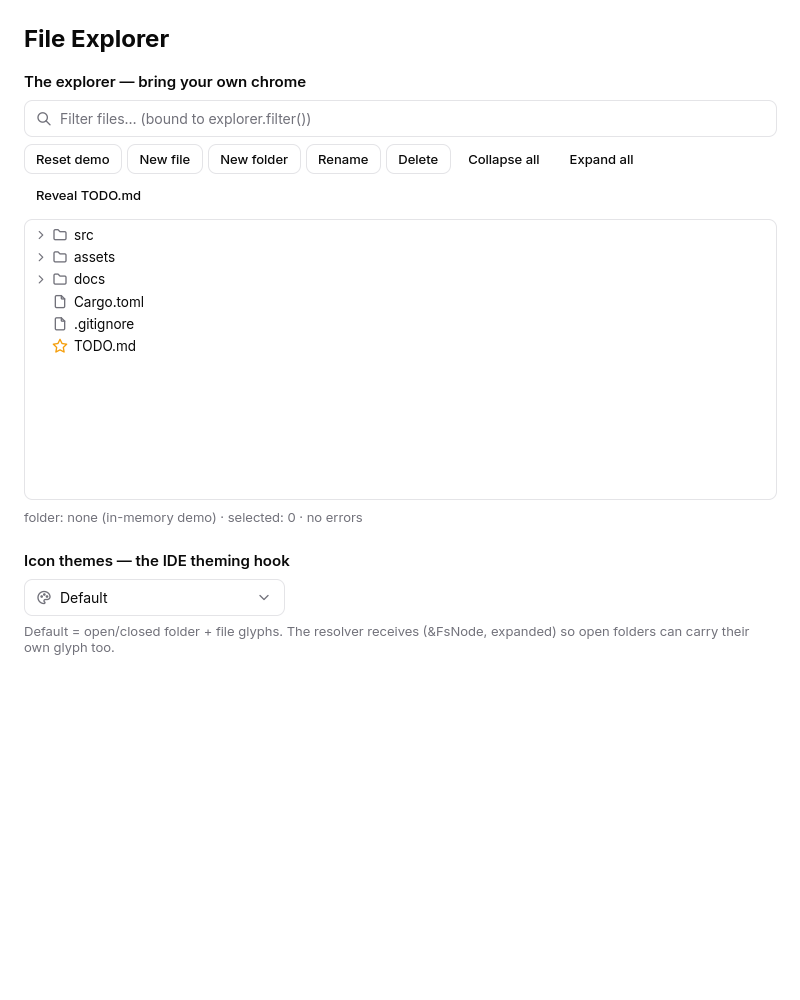
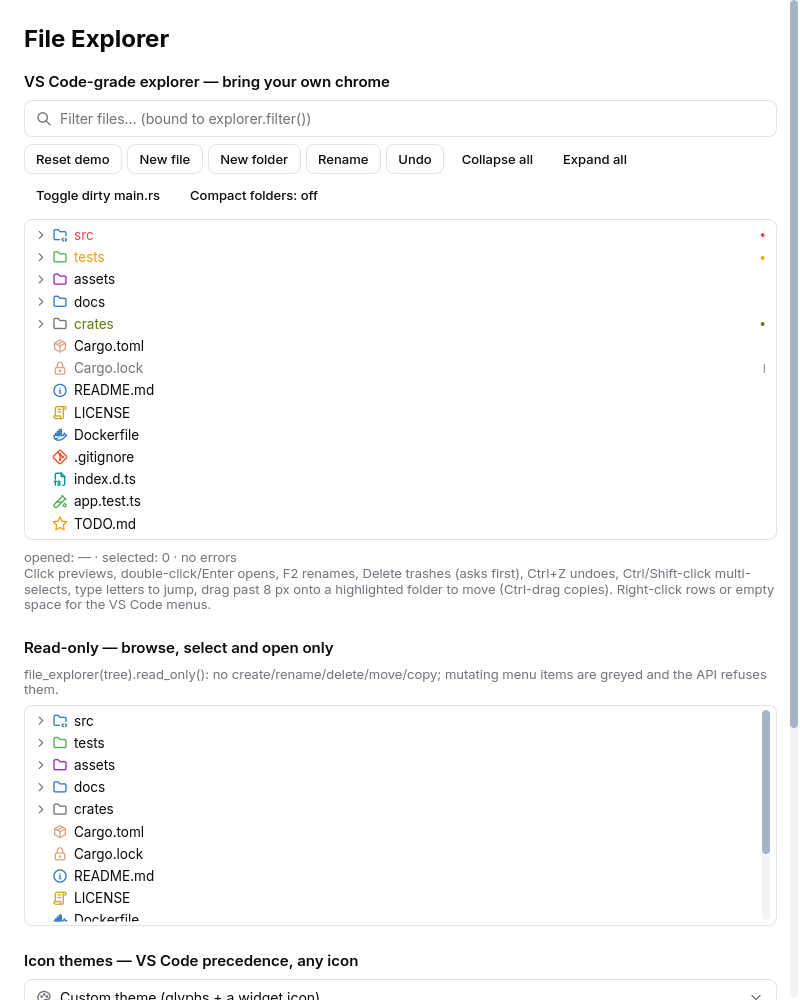
FileExplorer: rows scroll inside a bounded box instead of overflowing it
The tree was a bare Column, so in a fixed-height box its rows painted past
the border (gallery Read-only explorer overlapped the next heading). The rows
now sit in a vertical SingleChildScrollView (fill_viewport keeps the empty
space part of the explorer). RenderScroll shrink-wraps its content on an
unbounded scroll axis instead of sizing to infinity, so an explorer in an
unbounded column still sizes to its rows. Regression test + regenerated
lavapipe file_explorer refs.

🤖 Generated with Claude Code

diff --git a/crates/pebbles-widgets/tests/suite/file_explorer.rs b/crates/pebbles-widgets/tests/suite/file_explorer.rs
@@ -1940,3 +1940,61 @@ fn menu_customizations_survive_component_re_renders() {
     let ex = RR_EX.with(|c| c.borrow().unwrap());
     assert!(ex.menu_items().iter().any(|i| i.id == "app.x"), "custom item kept across a re-render");
 }
+
+// ---------------------------------------------------------------------------
+// Bounded box: rows are clipped to the explorer's viewport and scroll
+// ---------------------------------------------------------------------------
+
+fn bounded_root() -> impl IntoWidget {
+    let mut t = FileTree::new();
+    for i in 0..30 {
+        t.insert(None, FsKind::File, format!("file{i:02}.txt"));
+    }
+    let ex = file_explorer(create_signal(t));
+    // A 120 px box — far fewer rows fit than the 30 in the tree. Below it, a
+    // sibling the rows must not paint over (the gallery's next heading).
+    column(vec![
+        container().height(120.0).child(ex.tree()).into_widget(),
+        pebbles_widgets::text("below").into_widget(),
+    ])
+    .cross_axis_alignment(CrossAxisAlignment::Stretch)
+}
+
+#[test]
+fn rows_clip_and_scroll_inside_a_bounded_box() {
+    use pebbles_render::RenderScroll;
+    pebbles_widgets::overlay::init();
+    let mut h = pebbles_testing::Harness::new().window(300.0, 400.0);
+    h.mount(bounded_root);
+    h.draw();
+
+    // The tree is a scroll viewport no taller than the box, with content to scroll.
+    let sid = h.find::<RenderScroll>().expect("the explorer rows sit in a scroll viewport");
+    let tree = h.ui.render_tree();
+    let top = tree.absolute_offset(sid).y;
+    let vh = h.size_of(sid).height;
+    assert!(vh <= 120.0 + 0.5, "viewport is bounded by the box, got {vh}");
+    let max = h.object::<RenderScroll>(sid).max_offset;
+    assert!(max > 0.0, "30 rows overflow a 120 px box, so the tree scrolls (max_offset {max})");
+
+    // The heading below starts after the box, not under the overflowing rows.
+    let below = h.find_all_text("below")[0];
+    assert!(tree.absolute_offset(below).y >= top + vh - 0.5, "the next sibling sits below the viewport");
+
+    // The last row is outside the viewport (clipped) before scrolling…
+    let last = h.find_all_text("file29.txt")[0];
+    let y0 = tree.absolute_offset(last).y;
+    assert!(y0 >= top + vh, "the last row starts below the viewport before scrolling ({y0})");
+
+    // …and a wheel scroll over the tree brings it into view.
+    h.scroll(Offset::new(100.0, top + 20.0), 10_000.0);
+    h.settle();
+    h.draw();
+    let tree = h.ui.render_tree();
+    let off = h.object::<RenderScroll>(sid).offset;
+    assert!((off - max).abs() < 1.0, "scrolled to the end (offset {off}, max {max})");
+    let last = h.find_all_text("file29.txt")[0];
+    let y1 = tree.absolute_offset(last).y;
+    let rh = h.size_of(last).height;
+    assert!(y1 >= top - 0.5 && y1 + rh <= top + vh + 0.5, "the last row is inside the viewport ({y1})");
+}

diff --git a/crates/pebbles-render/src/objects/scroll.rs b/crates/pebbles-render/src/objects/scroll.rs
@@ -727,11 +727,11 @@ impl RenderObject for RenderScroll {
             Axis::Vertical => BoxConstraints {
                 min_width: if w_bounded { viewport.width } else { 0.0 },
                 max_width: if w_bounded { viewport.width } else { f64::INFINITY },
-                min_height: if self.fill_viewport { viewport.height } else { 0.0 },
+                min_height: if self.fill_viewport && h_bounded { viewport.height } else { 0.0 },
                 max_height: f64::INFINITY,
             },
             Axis::Horizontal => BoxConstraints {
-                min_width: if self.fill_viewport { viewport.width } else { 0.0 },
+                min_width: if self.fill_viewport && w_bounded { viewport.width } else { 0.0 },
                 max_width: f64::INFINITY,
                 min_height: if h_bounded { viewport.height } else { 0.0 },
                 max_height: if h_bounded { viewport.height } else { f64::INFINITY },
@@ -739,15 +739,22 @@ impl RenderObject for RenderScroll {
         };
         let content = cx.layout_child(child, child_constraints);
 
-        // Along the scroll axis the viewport is the available extent; on the cross axis
-        // it's the bounded viewport size, or the content size when unbounded.
+        // Along the scroll axis the viewport is the available extent — or, when that
+        // axis is unbounded (a scroll view inside a shrink-wrapping column), the
+        // content extent (CSS `height: auto; overflow: auto`: nothing to scroll)
+        // instead of an infinite box. On the cross axis it's the bounded viewport
+        // size, or the content size when unbounded.
         let (viewport_extent, content_extent, cross) = match self.axis {
-            Axis::Vertical => {
-                (viewport.height, content.height, if w_bounded { viewport.width } else { content.width })
-            }
-            Axis::Horizontal => {
-                (viewport.width, content.width, if h_bounded { viewport.height } else { content.height })
-            }
+            Axis::Vertical => (
+                if h_bounded { viewport.height } else { content.height },
+                content.height,
+                if w_bounded { viewport.width } else { content.width },
+            ),
+            Axis::Horizontal => (
+                if w_bounded { viewport.width } else { content.width },
+                content.width,
+                if h_bounded { viewport.height } else { content.height },
+            ),
         };
         self.viewport_extent = viewport_extent;
         self.max_offset = (content_extent - viewport_extent).max(0.0);

diff --git a/crates/pebbles-widgets/src/components/display/file_explorer/mod.rs b/crates/pebbles-widgets/src/components/display/file_explorer/mod.rs
@@ -883,11 +883,14 @@ impl FileExplorer {
             let hint = if q.is_empty() { "Empty — add a file or folder." } else { "No matches." };
             kids.push(Padding::new(EdgeInsets::all(12.0), muted(hint)).into_widget());
         }
-        // Fill the parent's height when it gives one (a panel), shrink-wrap
-        // otherwise — the empty space stays part of the explorer (right-click
-        // there = New File/New Folder; drop there = move to root).
-        let body =
-            column(kids).cross_axis_alignment(CrossAxisAlignment::Stretch).main_axis_size(MainAxisSize::Max);
+        // The rows live in a vertical scroll viewport (VS Code): in a bounded box
+        // they are clipped to it and scroll; `fill_viewport` keeps the empty space
+        // below the last row part of the explorer (right-click there = New
+        // File/New Folder; drop there = move to root). With an unbounded height
+        // the viewport shrink-wraps the rows.
+        let rows =
+            column(kids).cross_axis_alignment(CrossAxisAlignment::Stretch).main_axis_size(MainAxisSize::Min);
+        let body = crate::widgets::SingleChildScrollView::vertical(rows).fill_viewport(true);
 
         // Empty-space right-click → New File / New Folder; empty-space drop
         // (while dragging) → move to the root.
